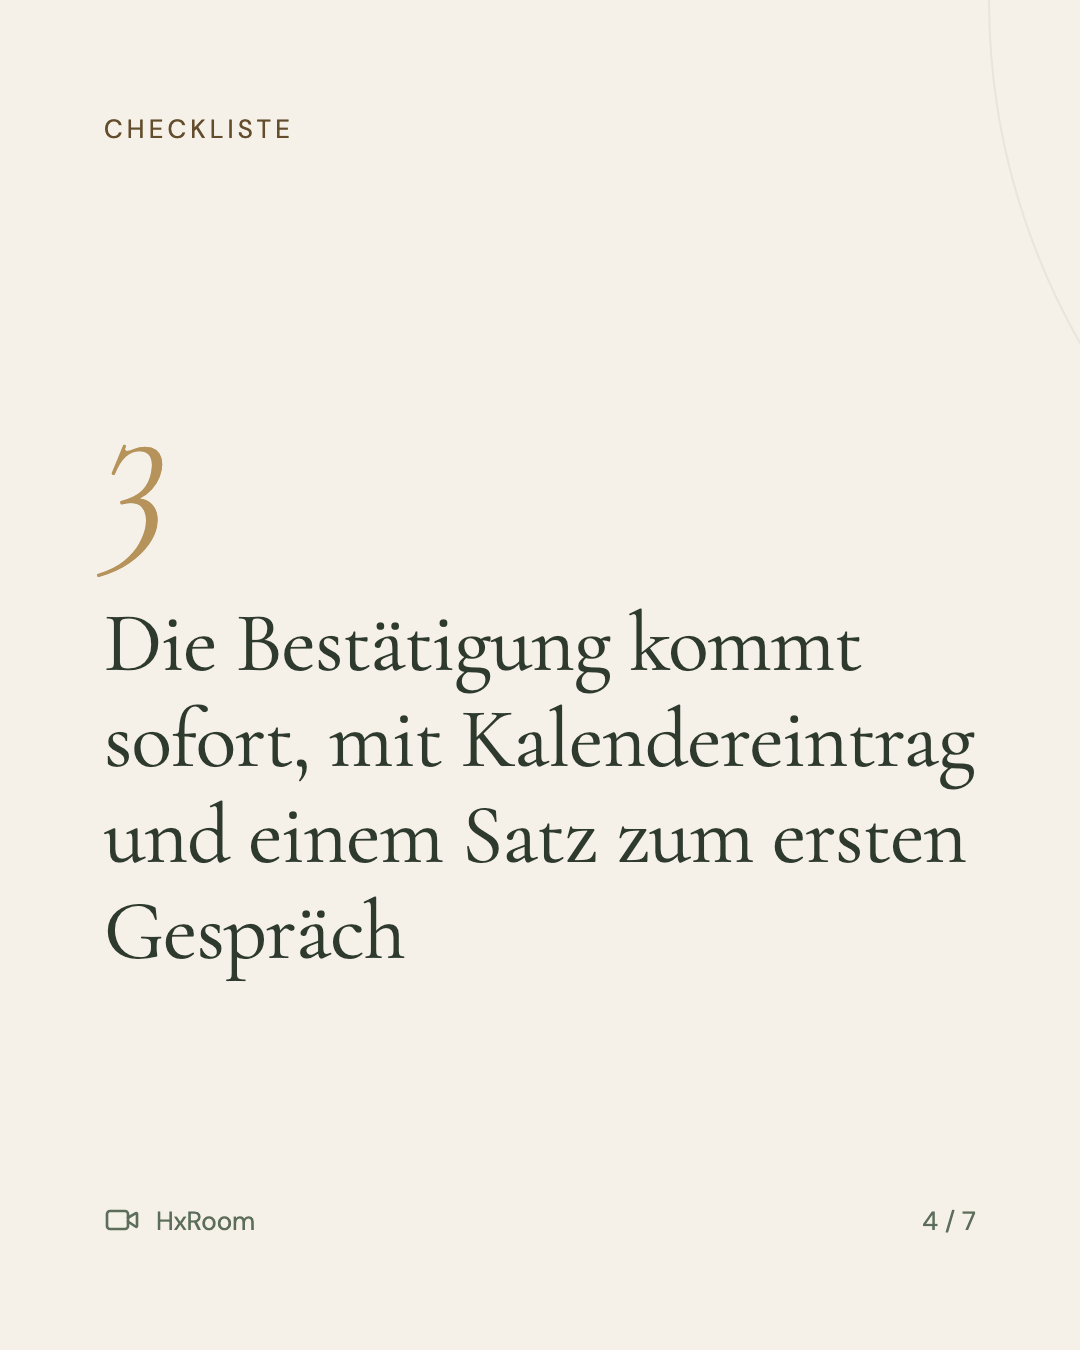
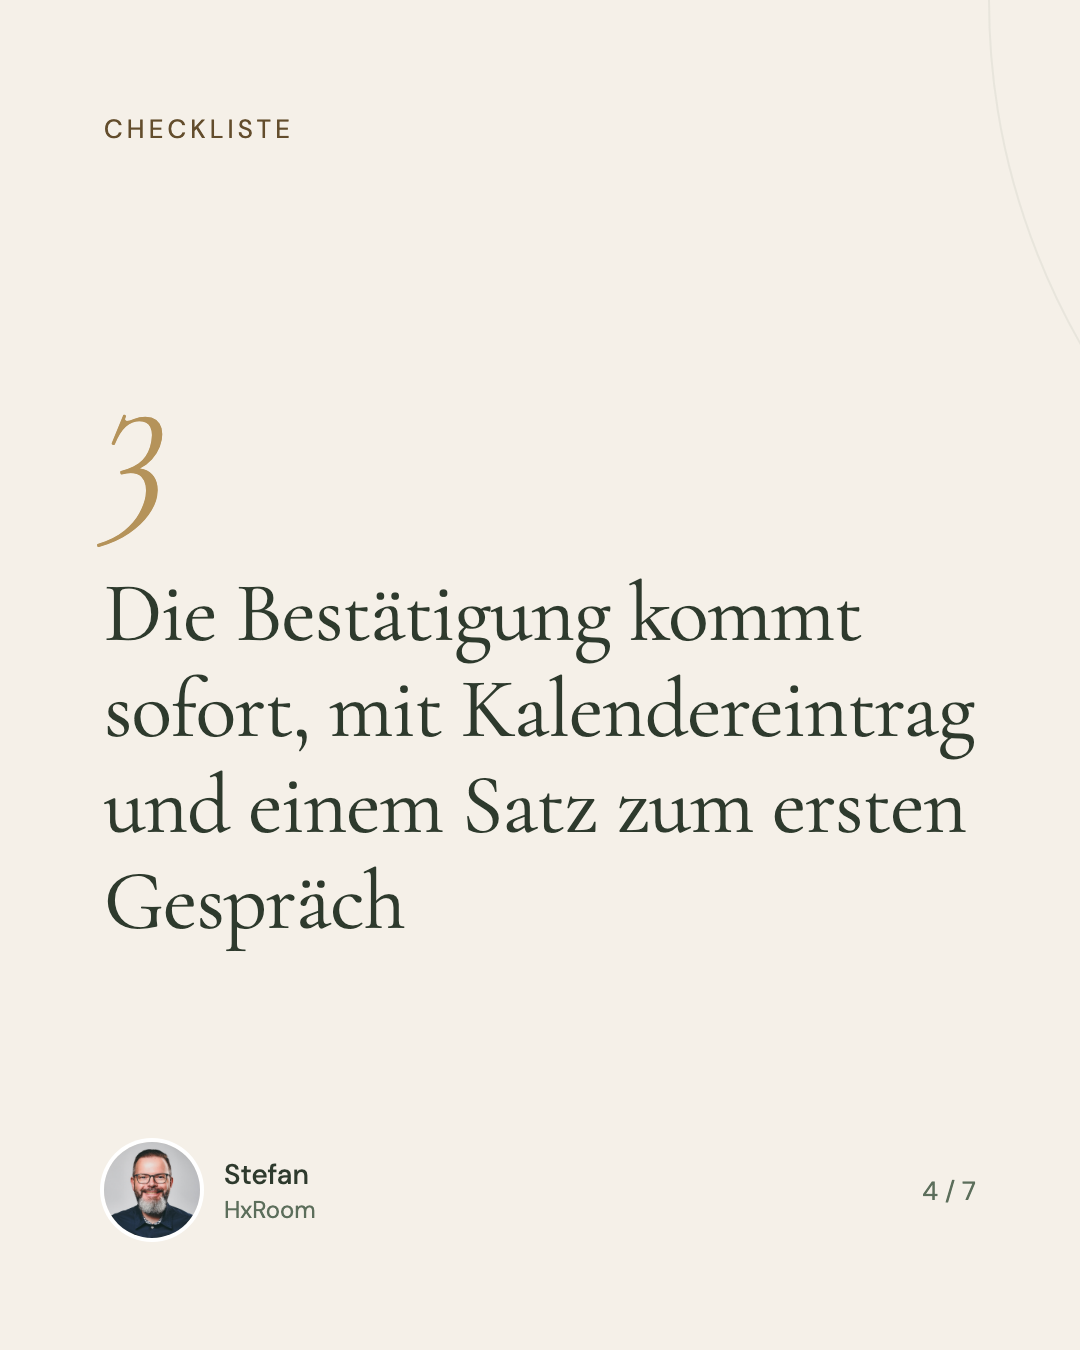
Marketing: Instagram-Bilder mit Absenderzeile neu gerendert
Das Foto in der Absenderzeile wächst auf 48 px, damit es in der Handyansicht als Gesicht erkennbar bleibt. Die Bilder der Beiträge 1, 2, 4 und 5 sind mit der neuen Fußzeile gerendert; Beitrag 3 bleibt unverändert. Das Konzept beschreibt in Abschnitt 5, dass jedes Bild Stefan als Absender zeigt und er groß nur in den eigenen Beiträgen erscheint.

Changed region(s): [[0.0917, 0.3111, 0.9167, 0.7156], [0.0917, 0.84, 0.3056, 0.9333], [0.8556, 0.8711, 0.9167, 0.9022]]

diff --git a/media/instagram/beitraege.html b/media/instagram/beitraege.html
@@ -69,7 +69,7 @@
 
   .absender { display: flex; align-items: center; gap: 12px; }
   .absender img {
-    width: 40px; height: 40px; border-radius: 50%; object-fit: cover;
+    width: 48px; height: 48px; border-radius: 50%; object-fit: cover;
     box-shadow: 0 0 0 2px #fff;
   }
   .dunkel .absender img { box-shadow: 0 0 0 2px rgba(245, 240, 232, 0.85); }

diff --git a/doc/marketing/instagram.md b/doc/marketing/instagram.md
@@ -93,7 +93,11 @@ Regeln für alle Beiträge:
 
 Instagram schneidet Beiträge in der Profilansicht an. Texte bleiben deshalb mit mindestens 90 Pixel Abstand zu den Rändern.
 
-Die Gestaltung folgt dem Theme (`packages/ui/theme`): Creme und Salbei, Serifenschrift für Überschriften, wenig Text je Bild. Jedes Format hat eine feste Vorlage, damit das Profil ruhig wirkt. Das erste Bild eines Karussells trägt eine Aussage in einem Satz, das letzte fasst sie zusammen. Die Vorlagen stehen in `media/instagram/beitraege.html`: Jedes Element `.tile` ist ein Bild, `data-datei` nennt die Zieldatei. Gerendert wird wie bei den LinkedIn-Bildern mit Playwright im Faktor 2 ([linkedin.md](linkedin.md), Abschnitt 4).
+Die Gestaltung folgt dem Theme (`packages/ui/theme`): Creme und Salbei, Serifenschrift für Überschriften, wenig Text je Bild. Jedes Format hat eine feste Vorlage, damit das Profil ruhig wirkt. Das erste Bild eines Karussells trägt eine Aussage in einem Satz, das letzte fasst sie zusammen.
+
+Unten links steht auf jedem Bild der Absender: Stefans Foto, darunter „Stefan“ und „HxRoom“. So steht hinter jedem Beitrag ein Gesicht, auch hinter den Ratgebern. Groß erscheint Stefan nur in Beiträgen der Reihe „Stefan baut HxRoom“, möglichst mit Alltagsfotos statt immer demselben Porträt.
+
+Die Vorlagen stehen in `media/instagram/beitraege.html`: Jedes Element `.tile` ist ein Bild, `data-datei` nennt die Zieldatei. Gerendert wird wie bei den LinkedIn-Bildern mit Playwright im Faktor 2 ([linkedin.md](linkedin.md), Abschnitt 4).
 
 Bildunterschriften beginnen mit einem Satz, der auch allein trägt. Links sind dort nicht klickbar. Nur Produktbeiträge enden mit „Link in der Bio“. Drei bis fünf Hashtags genügen, zum Beispiel `#Coaching #OnlineCoaching #Coach`.
 
